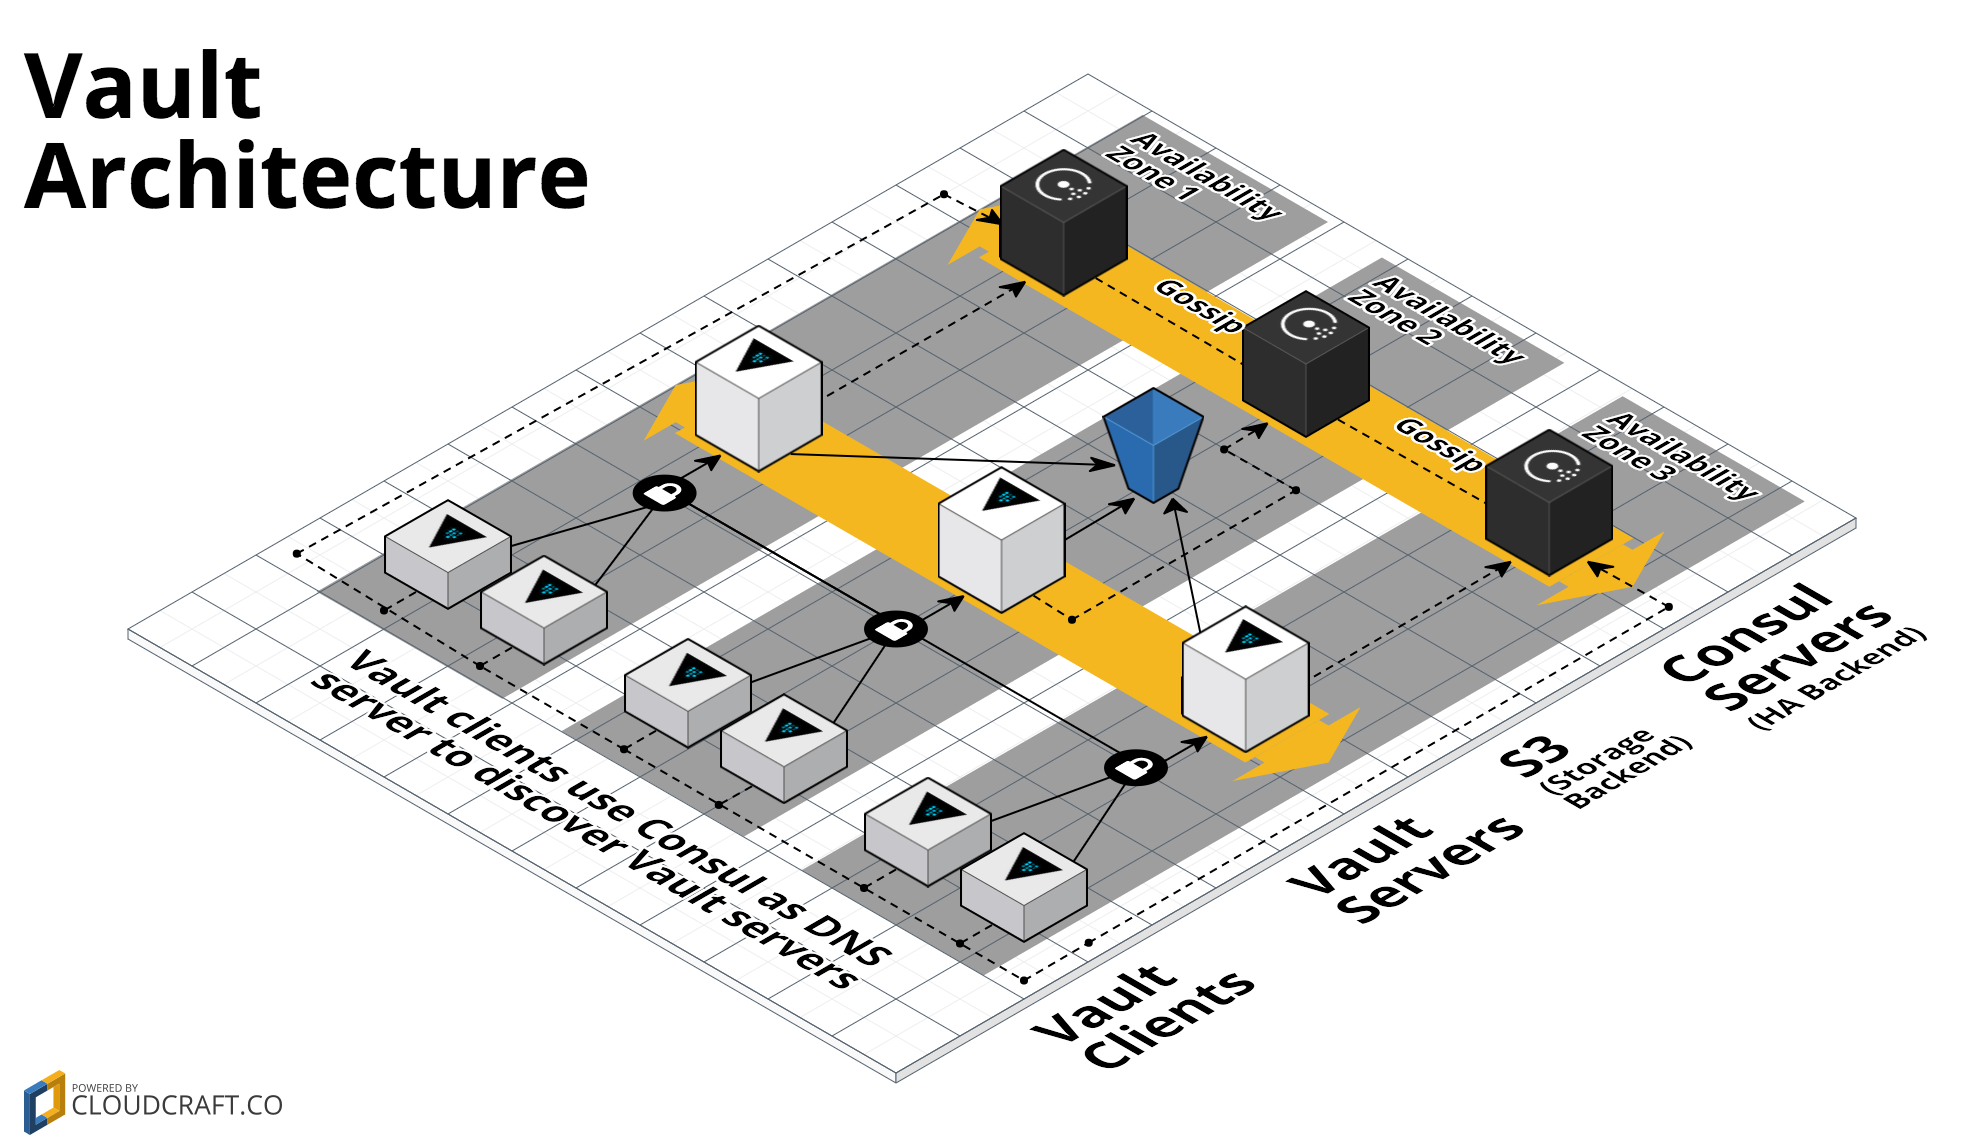
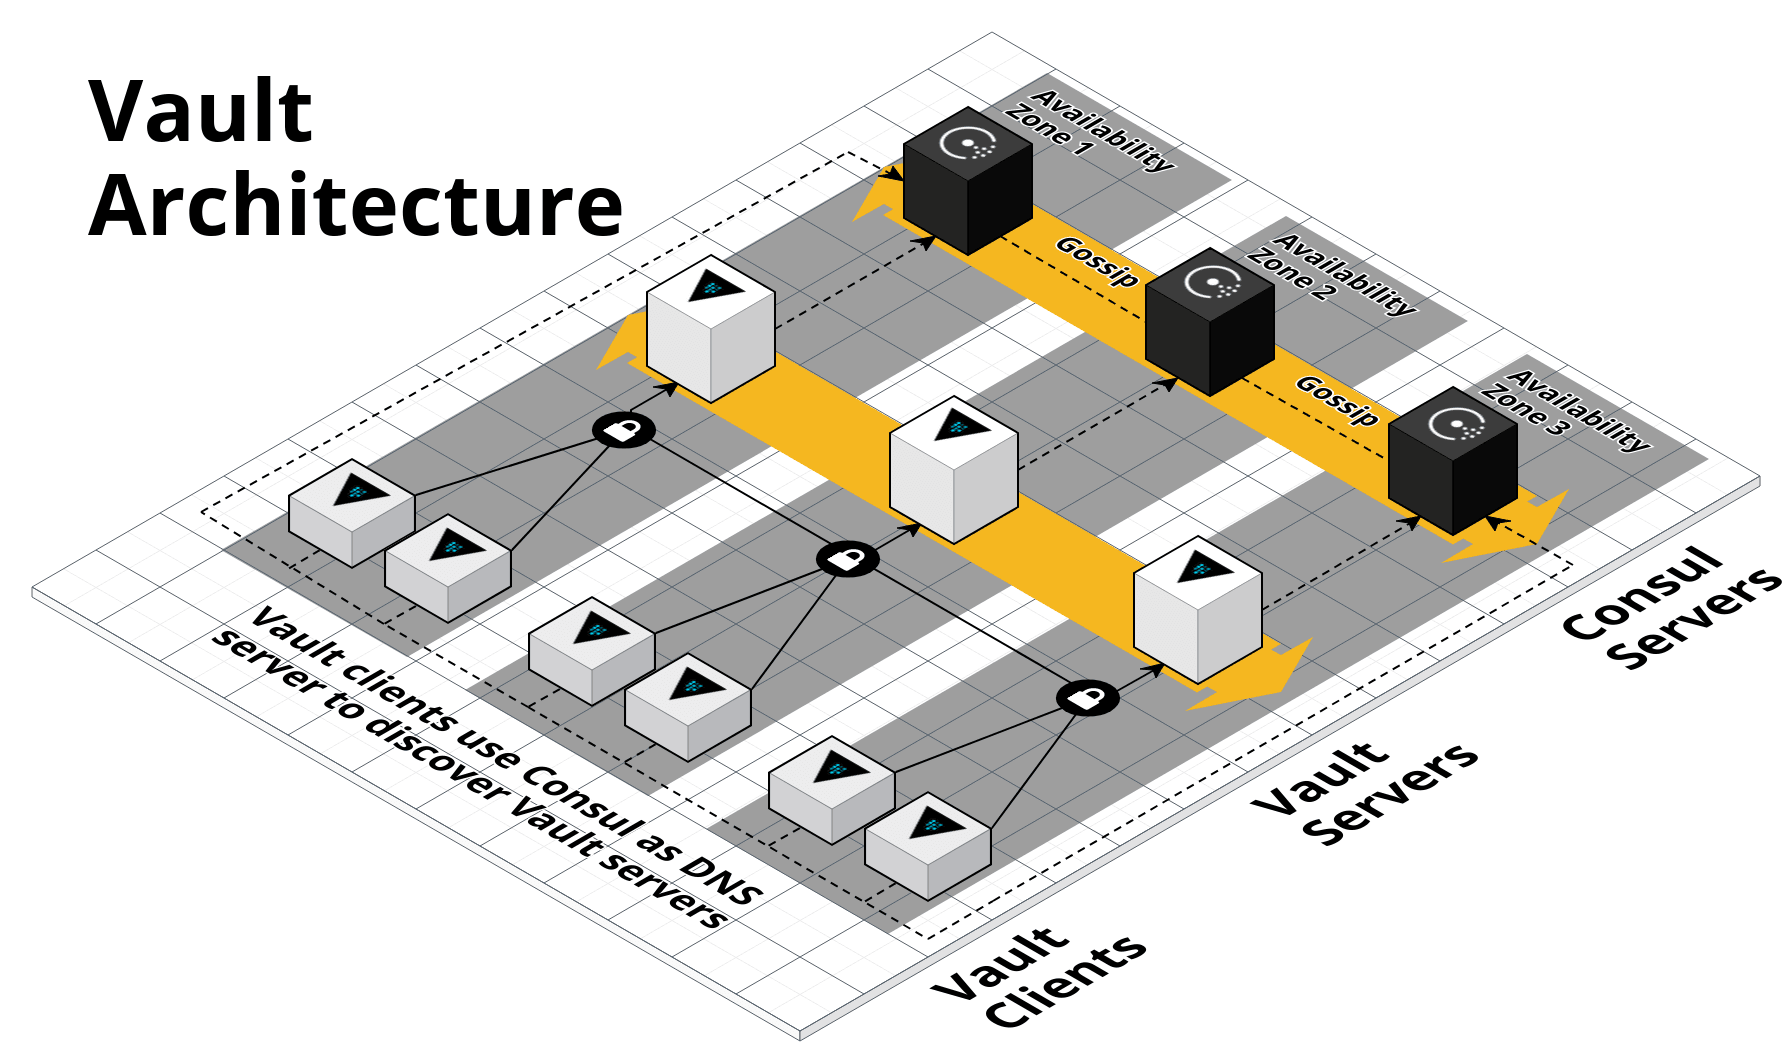
Remove S3
Switch to Consul as both the storage and HA backend. This reduces the
number of dependencies and is the recommended architecture from
HashiCorp.

Changed region(s): [[0.0625, 0.0621, 1.0, 0.9934], [0.0, 0.031, 0.3438, 0.2173], [0.0, 0.9313, 0.125, 0.9934]]

diff --git a/test/vault_helpers.go b/test/vault_helpers.go
@@ -23,12 +23,10 @@ const REPO_ROOT = "../"
 
 const VAR_AWS_REGION = "aws_region"
 const VAR_AMI_ID = "ami_id"
-const VAR_S3_BUCKET_NAME = "s3_bucket_name"
 const VAR_VAULT_CLUSTER_NAME = "vault_cluster_name"
 const VAR_CONSUL_CLUSTER_NAME = "consul_cluster_name"
 const VAR_CONSUL_CLUSTER_TAG_KEY = "consul_cluster_tag_key"
 const VAR_SSH_KEY_NAME = "ssh_key_name"
-const VAR_FORCE_DESTROY_S3_BUCKET = "force_destroy_s3_bucket"
 const OUTPUT_VAULT_CLUSTER_ASG_NAME = "asg_name_vault_cluster"
 
 const VAULT_CLUSTER_PRIVATE_PATH = "examples/vault-cluster-private"
@@ -91,12 +89,10 @@ func runVaultPrivateClusterTest(t *testing.T, testName string, packerBuildName s
 	terratestOptions.Vars = map[string]interface{} {
 		VAR_AMI_ID: amiId,
 		VAR_AWS_REGION: resourceCollection.AwsRegion,
-		VAR_S3_BUCKET_NAME: s3BucketName(resourceCollection),
 		VAR_VAULT_CLUSTER_NAME: fmt.Sprintf("vault-test-%s", resourceCollection.UniqueId),
 		VAR_CONSUL_CLUSTER_NAME: fmt.Sprintf("consul-test-%s", resourceCollection.UniqueId),
 		VAR_CONSUL_CLUSTER_TAG_KEY: fmt.Sprintf("consul-test-%s", resourceCollection.UniqueId),
 		VAR_SSH_KEY_NAME: resourceCollection.KeyPair.Name,
-		VAR_FORCE_DESTROY_S3_BUCKET: boolToTerraformVar(true),
 	}
 
 	deploy(t, terratestOptions)
@@ -130,12 +126,10 @@ func runVaultPublicClusterTest(t *testing.T, testName string, packerBuildName st
 	terratestOptions.Vars = map[string]interface{} {
 		VAR_AMI_ID: amiId,
 		VAR_AWS_REGION: resourceCollection.AwsRegion,
-		VAR_S3_BUCKET_NAME: s3BucketName(resourceCollection),
 		VAR_VAULT_CLUSTER_NAME: fmt.Sprintf("vault-test-%s", resourceCollection.UniqueId),
 		VAR_CONSUL_CLUSTER_NAME: fmt.Sprintf("consul-test-%s", resourceCollection.UniqueId),
 		VAR_CONSUL_CLUSTER_TAG_KEY: fmt.Sprintf("consul-test-%s", resourceCollection.UniqueId),
 		VAR_SSH_KEY_NAME: resourceCollection.KeyPair.Name,
-		VAR_FORCE_DESTROY_S3_BUCKET: boolToTerraformVar(true),
 		VAULT_CLUSTER_PUBLIC_VAR_CREATE_DNS_ENTRY: boolToTerraformVar(false),
 		VAULT_CLUSTER_PUBLIC_VAR_HOSTED_ZONE_DOMAIN_NAME: "",
 		VAULT_CLUSTER_PUBLIC_VAR_VAULT_DOMAIN_NAME: "",
@@ -265,12 +259,6 @@ func parseUnsealKeysFromVaultInitResponse(t *testing.T, vaultInitResponse string
 	unsealKey3 := parseUnsealKey(t, lines[2])
 
 	return []string{unsealKey1, unsealKey2, unsealKey3}
-}
-
-// Generate a unique name for an S3 bucket. Note that S3 bucket names must be globally unique and that only lowercase
-// alphanumeric characters and hyphens are allowed.
-func s3BucketName(resourceCollection *terratest.RandomResourceCollection) string {
-	return strings.ToLower(fmt.Sprintf("vault-module-test-%s", resourceCollection.UniqueId))
 }
 
 // SSH to a Vault node and make sure that is properly configured to use Consul for DNS so that the vault.service.consul

diff --git a/modules/run-vault/README.md b/modules/run-vault/README.md
@@ -18,7 +18,7 @@ module](https://github.com/hashicorp/terraform-aws-vault/tree/master/modules/ins
 run:
 
 ```
-/opt/vault/bin/run-vault --s3-bucket my-vault-bucket --s3-bucket-region us-east-1 --tls-cert-file /opt/vault/tls/vault.crt.pem --tls-key-file /opt/vault/tls/vault.key.pem
+/opt/vault/bin/run-vault --tls-cert-file /opt/vault/tls/vault.crt.pem --tls-key-file /opt/vault/tls/vault.key.pem
 ```
 
 This will:
@@ -48,8 +48,6 @@ See the [vault-cluster-public](https://github.com/hashicorp/terraform-aws-vault/
 
 The `run-vault` script accepts the following arguments:
 
-* `--s3-bucket` (required): Specifies the S3 bucket to use to store Vault data. 
-* `--s3-bucket-region` (required): Specifies the AWS region where `--s3-bucket` lives. 
 * `--tls-cert-file` (required): Specifies the path to the certificate for TLS. To configure the listener to use a CA 
   certificate, concatenate the primary certificate and the CA certificate together. The primary certificate should 
   appear first in the combined file. See [How do you handle encryption?](#how-do-you_handle-encryption) for more info.
@@ -62,13 +60,13 @@ The `run-vault` script accepts the following arguments:
 * `config-dir` (optional): The path to the Vault config folder. Default is to take the absolute path of `../config`, 
   relative to the `run-vault` script itself.
 * `user` (optional): The user to run Vault as. Default is to use the owner of `config-dir`.
-* `skip-vault-config`: If this flag is set, don't generate a Vault configuration file. This is useful if you have
-  a custom configuration file and don't want to use any of of the default settings from `run-vault`. 
+* `skip-vault-config` (optional): If this flag is set, don't generate a Vault configuration file. This is useful if you 
+  have a custom configuration file and don't want to use any of of the default settings from `run-vault`. 
 
 Example:
 
 ```
-/opt/vault/bin/run-vault --s3-bucket my-vault-bucket --s3-bucket-region us-east-1 --tls-cert-file /opt/vault/tls/vault.crt.pem --tls-key-file /opt/vault/tls/vault.key.pem
+/opt/vault/bin/run-vault --tls-cert-file /opt/vault/tls/vault.crt.pem --tls-key-file /opt/vault/tls/vault.key.pem
 ```
 
 
@@ -86,17 +84,9 @@ available.
 
 `run-vault` sets the following configuration values by default:
 
-* [storage](https://www.vaultproject.io/docs/configuration/index.html#storage): Configure S3 as the storage backend
+* [storage](https://www.vaultproject.io/docs/configuration/index.html#storage): Configure Consul as the storage backend
   with the following settings:
  
-     * [bucket](https://www.vaultproject.io/docs/configuration/storage/s3.html#bucket): Set to the `--s3-bucket`
-       parameter.
-     * [region](https://www.vaultproject.io/docs/configuration/storage/s3.html#region): Set to the `--s3-bucket-region` 
-       parameter.
- 
-* [ha_storage](https://www.vaultproject.io/docs/configuration/index.html#ha_storage): Configure Consul as the [high 
-  availability](https://www.vaultproject.io/docs/concepts/ha.html) storage backend with the following settings:
-
     * [address](https://www.vaultproject.io/docs/configuration/storage/consul.html#address): Set the address to 
       `127.0.0.1:8500`. This is based on the assumption that the Consul agent is running on the same server.
     * [scheme](https://www.vaultproject.io/docs/configuration/storage/consul.html#scheme): Set to `http` since our
@@ -143,7 +133,7 @@ If you want to override *all* the default settings, you can tell `run-vault` not
 at all using the `--skip-vault-config` flag:
 
 ```
-/opt/vault/bin/run-vault --s3-bucket my-vault-bucket --s3-bucket-region us-east-1 --tls-cert-file /opt/vault/tls/vault.crt.pem --tls-key-file /opt/vault/tls/vault.key.pem --skip-vault-config
+/opt/vault/bin/run-vault --tls-cert-file /opt/vault/tls/vault.crt.pem --tls-key-file /opt/vault/tls/vault.key.pem --skip-vault-config
 ```
 
 
@@ -163,7 +153,7 @@ When you execute the `run-vault` script, you need to provide the paths to the pu
 certificate:
 
 ```
-/opt/vault/bin/run-vault --s3-bucket my-vault-bucket --s3-bucket-region us-east-1 --tls-cert-file /opt/vault/tls/vault.crt.pem --tls-key-file /opt/vault/tls/vault.key.pem
+/opt/vault/bin/run-vault us-east-1 --tls-cert-file /opt/vault/tls/vault.crt.pem --tls-key-file /opt/vault/tls/vault.key.pem
 ```
 
 See the [private-tls-cert module](https://github.com/hashicorp/terraform-aws-vault/tree/master/modules/private-tls-cert) for information on how to generate a TLS certificate.
@@ -171,9 +161,9 @@ See the [private-tls-cert module](https://github.com/hashicorp/terraform-aws-vau
 
 ### Consul encryption
 
-Since this Vault Module uses Consul as a high availability storage backend, you may want to enable encryption for 
-Consul too. Note that Vault encrypts any data *before* sending it to a storage backend, so this isn't strictly 
-necessary, but may be a good extra layer of security.
+Since this Vault Module uses Consul as a storage backend, you may want to enable encryption for Consul too. Note that 
+Vault encrypts any data *before* sending it to a storage backend, so this isn't strictly necessary, but may be a good 
+extra layer of security.
 
 By default, the Vault server nodes communicate with a local Consul agent running on the same server over (unencrypted) 
 HTTP. However, you can configure those agents to talk to the Consul servers using TLS. Check out the [official Consul 

diff --git a/modules/vault-cluster/README.md b/modules/vault-cluster/README.md
@@ -21,13 +21,10 @@ module "vault_cluster" {
   # Specify the ID of the Vault AMI. You should build this using the scripts in the install-vault module.
   ami_id = "ami-abcd1234"
   
-  # This module uses S3 as a storage backend
-  s3_bucket_name   = "${var.vault_s3_bucket}"
-  
   # Configure and start Vault during boot. 
   user_data = <<-EOF
               #!/bin/bash
-              /opt/vault/bin/run-vault --s3-bucket ${var.vault_s3_bucket} --s3-bucket-region ${var.aws_region} --tls-cert-file /opt/vault/tls/vault.crt.pem --tls-key-file /opt/vault/tls/vault.key.pem
+              /opt/vault/bin/run-vault --tls-cert-file /opt/vault/tls/vault.crt.pem --tls-key-file /opt/vault/tls/vault.key.pem
               EOF
 
   # Add tag to each node in the cluster with value set to var.cluster_name
@@ -63,8 +60,6 @@ Note the following parameters:
   (AMI)](http://docs.aws.amazon.com/AWSEC2/latest/UserGuide/AMIs.html) to deploy on each server in the cluster. You
   should install Vault in this AMI using the scripts in the [install-vault](https://github.com/hashicorp/terraform-aws-vault/tree/master/modules/install-vault) module.
   
-* `s3_bucket_name`: This module creates an [S3](https://aws.amazon.com/s3/) to use as a storage backend for Vault.
- 
 * `user_data`: Use this parameter to specify a [User 
   Data](http://docs.aws.amazon.com/AWSEC2/latest/UserGuide/user-data.html#user-data-shell-scripts) script that each
   server will run during boot. This is where you can use the [run-vault script](https://github.com/hashicorp/terraform-aws-vault/tree/master/modules/run-vault) to configure and 
@@ -277,7 +272,6 @@ This module creates the following architecture:
 This architecture consists of the following resources:
 
 * [Auto Scaling Group](#auto-scaling-group)
-* [S3 bucket](#s3-bucket)
 * [Security Group](#security-group)
 * [IAM Role and Permissions](#iam-role-and-permissions)
 
@@ -289,14 +283,6 @@ should run the ASG with 3 or 5 EC2 Instances spread across multiple [Availabilit
 Zones](http://docs.aws.amazon.com/AWSEC2/latest/UserGuide/using-regions-availability-zones.html). Each of the EC2
 Instances should be running an AMI that has had Vault installed via the [install-vault](https://github.com/hashicorp/terraform-aws-vault/tree/master/modules/install-vault)
 module. You pass in the ID of the AMI to run using the `ami_id` input parameter.
-
-
-### S3 Bucket
-
-This module creates an [S3 bucket](https://aws.amazon.com/s3/) that Vault can use as a storage backend. S3 is a good
-choice for storage because it provides outstanding durability (99.999999999%) and availability (99.99%).  Unfortunately,
-S3 cannot be used for Vault High Availability coordination, so this module expects a separate Consul server cluster to 
-be deployed as a high availability backend.
 
 
 ### Security Group
@@ -315,9 +301,8 @@ Check out the [Security section](#security) for more details.
 
 ### IAM Role and Permissions
 
-Each EC2 Instance in the ASG has an [IAM Role](http://docs.aws.amazon.com/IAM/latest/UserGuide/id_roles.html) attached
-with permissions to access its S3 bucket. The IAM Role ARN is exported as an output variable so you can add custom
-permissions. 
+Each EC2 Instance in the ASG has an [IAM Role](http://docs.aws.amazon.com/IAM/latest/UserGuide/id_roles.html) attached. 
+The IAM Role ARN is exported as an output variable so you can add custom permissions. 
 
 
 
@@ -460,15 +445,14 @@ This module does NOT handle the following items, which you may want to provide o
 
 ### Consul
 
-This module configures Vault to use Consul as a high availability storage backend. This module assumes you already 
-have Consul servers deployed in a separate cluster. We do not recommend co-locating Vault and Consul servers in the 
-same cluster because:
+This module configures Vault to use Consul as a storage backend. This module assumes you already have Consul servers 
+deployed in a separate cluster. We do not recommend co-locating Vault and Consul servers in the same cluster because:
 
 1. Vault is a tool built specifically for security, and running any other software on the same server increases its
    surface area to attackers.
-1. This Vault Module uses Consul as a high availability storage backend and both Vault and Consul keep their working 
-   set in memory. That means for every 1 byte of data in Vault, you'd also have 1 byte of data in Consul, doubling 
-   your memory consumption on each server.
+1. This Vault Module uses Consul as a storage backend and both Vault and Consul keep their working set in memory. That 
+   means for every 1 byte of data in Vault, you'd also have 1 byte of data in Consul, doubling your memory consumption 
+   on each server.
 
 Check out the [Consul AWS Module](https://github.com/hashicorp/terraform-aws-consul) for how to deploy a Consul 
 server cluster in AWS. See the [vault-cluster-public](https://github.com/hashicorp/terraform-aws-vault/tree/master/examples/vault-cluster-public) and 

diff --git a/README.md b/README.md
@@ -2,9 +2,8 @@
 
 This repo contains a Module for how to deploy a [Vault](https://www.vaultproject.io/) cluster on 
 [AWS](https://aws.amazon.com/) using [Terraform](https://www.terraform.io/). Vault is an open source tool for managing
-secrets. This Module uses [S3](https://aws.amazon.com/s3/) as a [storage 
-backend](https://www.vaultproject.io/docs/configuration/storage/index.html) and a [Consul](https://www.consul.io) 
-server cluster as a [high availability backend](https://www.vaultproject.io/docs/concepts/ha.html):
+secrets. By default, this Module uses [Consul](https://www.consul.io) as a [storage 
+backend](https://www.vaultproject.io/docs/configuration/storage/index.html).
 
 ![Vault architecture](https://github.com/hashicorp/terraform-aws-vault/blob/master/_docs/architecture.png?raw=true)
 
@@ -73,8 +72,8 @@ Each Module has the following folder structure:
 Click on each of the modules above for more details.
 
 To deploy Vault with this Module, you will need to deploy two separate clusters: one to run 
-[Consul](https://www.consul.io/) servers (which Vault uses as a [high availability 
-backend](https://www.vaultproject.io/docs/concepts/ha.html)) and one to run Vault servers. 
+[Consul](https://www.consul.io/) servers (which Vault uses as a [storage 
+backend](https://www.vaultproject.io/docs/configuration/storage/index.html)) and one to run Vault servers. 
 
 To deploy the Consul server cluster, use the [Consul AWS Module](https://github.com/hashicorp/terraform-aws-consul). 
 
